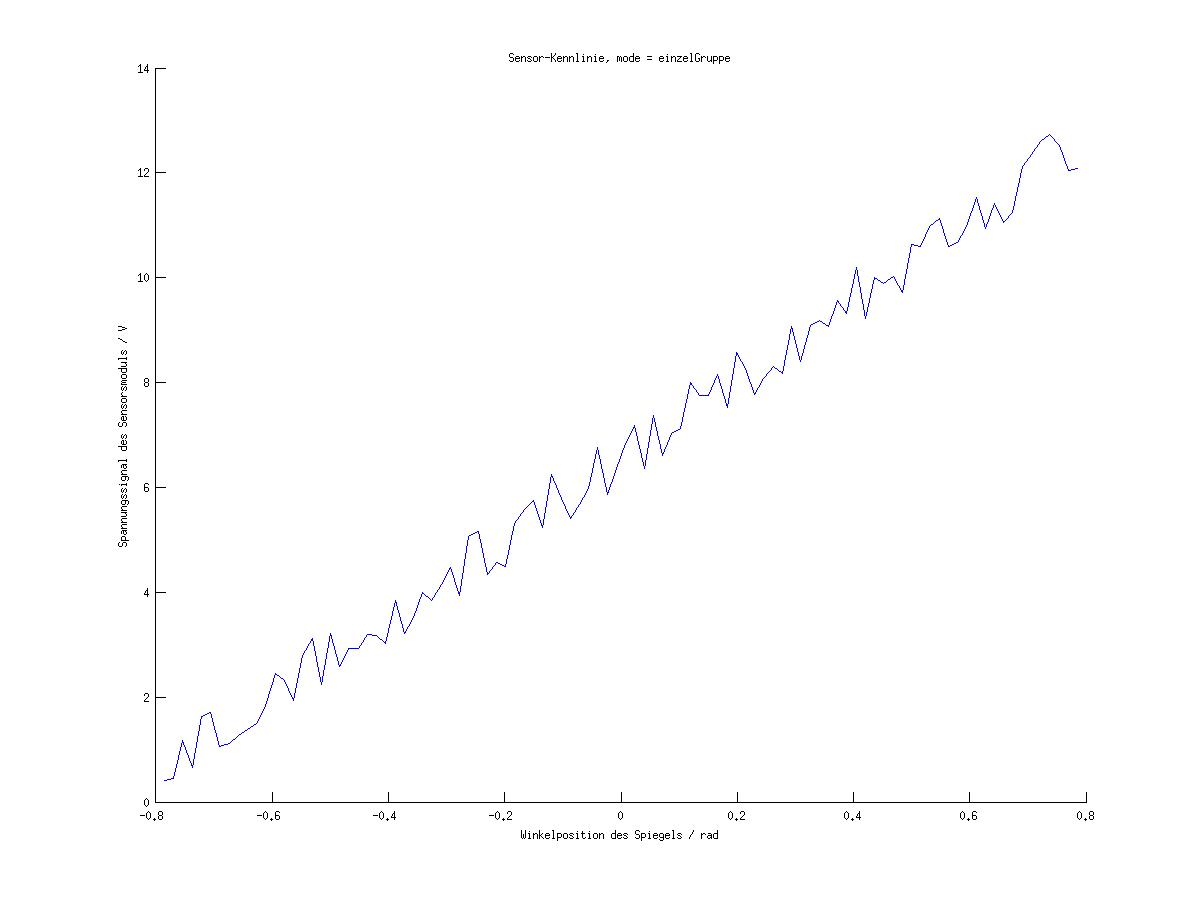
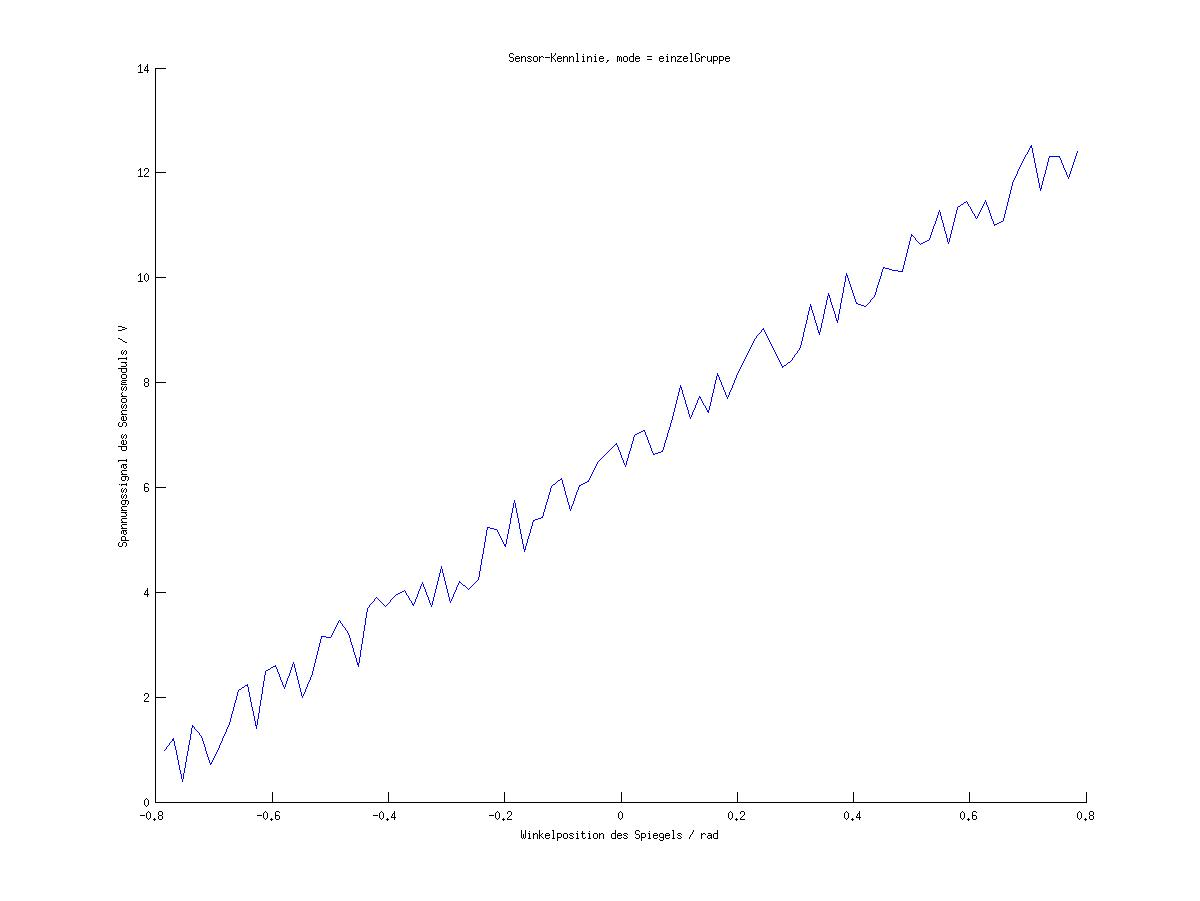
fertigstellung Sensor

diff --git a/sensorDaten.m b/sensorDaten.m
@@ -26,7 +26,7 @@ function Sensorkonstanten = sensorDaten(Photodioden,Messbereich,LEDLeistung,Umge
 Sensorkonstanten{1} = 0.001; % max Signal in A
 
 
-Sensorkonstanten{2} = Photodioden(3); % Lastwiederstand
+Sensorkonstanten{2} = Photodioden(3); % Lastwiderstand
 Sensorkonstanten{3} = Messbereich; % max Messbereich
 Sensorkonstanten{4} = Sensorkonstanten{1}*Photodioden(3)*4; % max Signal in V
 

diff --git a/posEingabe.m b/posEingabe.m
@@ -21,7 +21,12 @@ switch Unit
         phiPos = phi;
     case 'mrad'
         phiPos = phi/1000;
+end
+
+if abs(phiPos) > Sensorkonstanten{3}
+    phiPos = Sensorkonstanten{3}*sign(phiPos);
+end
         
-sollsignal = phiPos * 1/2*Sensorkonstanten{3}
+sollsignal = (phiPos * 1/(2*Sensorkonstanten{3})+0.5) * Sensorkonstanten{4};
 
 end

diff --git a/Sensor_initieren.m b/Sensor_initieren.m
@@ -24,6 +24,8 @@ Messbereich = 45/180*pi; % 45° in rad
 LEDLeistung = 1; % in W
 Umgebungstemperatur = 300; % in K
 
+sensorkonstanten = (Photodioden,Messbereich,LEDLeistung,Umgebungstemperatur);
+
 %erzeugen eines Messwerts
 phi = 0.4 ; %Beispielwinkel der Welle in rad
 signal = sensor(phi,'rad',mode,sensorkonstanten)
